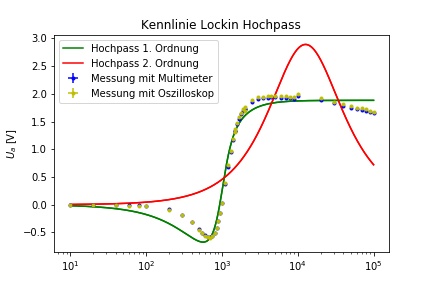
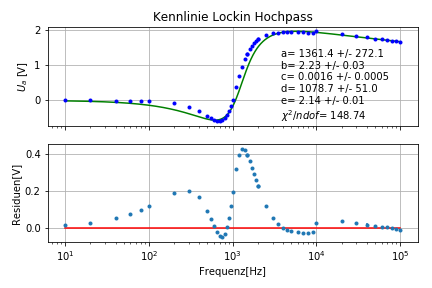
Überarbeitung Vorversuch2 fertig

Changed region(s): [[0.0301, 0.0312, 0.9931, 0.9688], [0.0, 0.4688, 0.0301, 0.5625], [0.0602, 0.4062, 0.1204, 0.4375]]

diff --git a/PH/Protokoll/Magnetische Phasenuebergaenge.tex b/PH/Protokoll/Magnetische Phasenuebergaenge.tex
@@ -269,57 +269,51 @@ f_G^{Literatur} = \SI{1061 \pm 106}{Hz}
 \end{equation*}
 Der Fehler wird hauptsächlich durch den großen Fehler auf die Kapazität des Kondensators begründet. Damit stimmen Literaturwert und Messergebnis innerhalb ihrer Fehler überein.
 
-\subsubsection{Untersuchung des Tiefpasses des Lockin-Verstärkers}
-
-\begin{figure}
-\centering
-\includegraphics[scale=1]{Bilder/Vorversuch2/KennlinieTiefpass.png}
-\caption[test]{Verlauf der Ausgangsspannung bei der Vermessung des Tiefpasses des Lockin-Verstärkers in Abhängigkeit von der Frequenz. In grün und rot sind die Anpassungen der Kennlinien von Tiefpässen 1. und 2. Ordnung.}
-\label{fig:LockinTiefpass_Verlauf}
-\end{figure}
-
-Bei der Untersuchung der internen Filter wurde nur die Ausgangsspannung gemessen, nicht jedoch die Eingangsspannung. Diese wurde zwar konstant gehalten, um dies jedoch als mögliche Fehlerquelle auszuschließen, wird nur die Ausgangsspannung betrachtet[???-ka was damit gemeint ist]. \\
-Den Verlauf der Ausgangsspannung in Abhängigkeit von der Frequenz zeigt Abbildung \ref{fig:LockinTiefpass_Verlauf}. Die Anpassungen der Kennlinien von Tiefpässen 1. bzw. 2. Ordnung sind mit $\chi ^2$/ndof von 2000 bzw. 500 und relativen Fehlern auf die Anpassungsparameter von bis zu $10^4$ nicht gelungen sind. Dennoch zeigen diese, wie in Abbildung \ref{fig:LockinTiefpass_Verlauf} gut erkennbar ist, dass es sich bei dem vermessenen internen Filter des Lockin-Verstärkers um einen Tiefpass 2. Ordnung handelt. \\
-Wie bei einem Tiefpass erwartet, werden kleine Frequenzen durchgelassen und hohe Frequenzen unterdrückt. Dazwischen gibt es einen Übergangsbereich von ca. \SI{500}{Hz} bis ca. \SI{1500}{Hz}, in dem das Signal geschwächt durchgelassen wird bzw. teilweise auch mit $(-1)$ multipliziert wird.
-
-\begin{figure}
-\centering
-\includegraphics[scale=1]{Bilder/Vorversuch2/AblesenTiefpass.png}
-\caption[test]{Verlauf der Ausgangsspannung bei der Vermessung des Tiefpasses des Lockin-Verstärkers in Abhängigkeit von der Frequenz in der Nähe der Grenzfrequenz. In rot ist die horizontale Linie eingezeichnet, bei deren Schnittpunkt mit den Daten die Grenzfrequenz liegt.}
-\label{fig:LockinTiefpass_Ablesen}
-\end{figure}
-
-Da die Grenzfrequenz nicht aus den Anpassungen bestimmt werden kann, muss diese abgelesen werden. Dazu wird Abbildung \ref{fig:LockinTiefpass_Ablesen} betrachtet, in der die Frequenz zur Vereinfachung des Ablesens nicht logarithmiert und der Frequenzbereich eingeschränkt wurde. Die Grenzfrequenz wird dann abgelesen zu:
-\begin{equation*}
-f_G^{Tief} = \SI{830 \pm 14}{Hz}
-\end{equation*}
-Der Fehler wird dabei aus der Annahme einer Gleichverteilung zwischen den beiden Messpunkten um den Schnittpunkt abgeschätzt.
-
 \subsubsection{Untersuchung des Hochpasses des Lockin-Verstärkers}
 
 \begin{figure}
 \centering
 \includegraphics[scale=1]{Bilder/Vorversuch2/KennlinieHochpass.png}
-\caption[test]{Verlauf der Ausgangsspannung bei der Vermessung des Hochpasses des Lockin-Verstärkers in Abhängigkeit von der Frequenz. In grün und rot sind die Anpassungen der Kennlinien von Hochpässen 1. und 2. Ordnung.}
+\caption[test]{Verlauf der Ausgangsspannung bei der Vermessung des Hochpasses des Lockin-Verstärkers in Abhängigkeit von der Frequenz.}
 \label{fig:LockinHochpass_Verlauf}
 \end{figure}
 
-Auch beim Hochpass wurde die Eingangsspannung nicht aufgenommen und deshalb nur die Ausgangsspannung betrachtet. \\
-Auch hier sind die Anpassungen nicht gelungen. Dennoch zeigt Abbildung \ref{fig:LockinHochpass_Verlauf}, dass es sich bei dem vermessenen Hochpass des Lockin-Verstärkers um einen Hochpass 1. Ordnung handelt, da diese Anpassung die Daten deutlich besser beschreibt als die eines Hochpasses 2. Ordnung. \\
-Wie bei einem Hochpass erwartet, werden kleine Frequenzen unterdrückt und hohe Frequenzen durchgelassen. Dazwischen gibt es wieder einen Übergangsbereich, wobei dieser bereits bei kleineren Frequenzen beginnt, nämlich bei ca. \SI{150}{Hz} und auch etwas weiter geht, bis ca. \SI{2}{kHz}. Abgesehen davon sieht der Übergangsbereich qualitativ dem Übergangsbereich des Tiefpasses ähnlich nur umgedreht.
+Bei der Untersuchung der internen Filter wurde nur die Ausgangsspannung gemessen, nicht jedoch die Eingangsspannung. Diese wurde zwar konstant gehalten, daher wird der Einfachheit halber nur die Ausgangsspannung betrachtet. \\
+Abbildung \ref{fig:LockinHochpass_Verlauf} zeigt den Verlauf der Ausgangsspannung in Abhängigkeit von der Frequenz und dazu eine Anpassung der Form:
+\begin{equation*}
+U_a (f) = b \cdot \dfrac{\frac{f}{a}}{\sqrt{1 + \left( \frac{f}{a} \right)^e}} \cdot \sin \left( - \arctan \left( \left( f-d \right) \cdot c \right) \right)
+\end{equation*}
+Dabei entspricht der Parameter a der Grenzfrequenz $f_G$, b der Amplitude der Spannung $U_0$, d entspricht der Frequenz, bei der die Phase null ist, c ist eine Skalierung des Phasengangs und e der Exponent des $\frac{f}{f_G}$-Summanden unter der Wurzel. Der Erwartungswert für den Exponenten ist 2. \\
+Als Fehler auf die Spannung wurde der Digitalisierungsfehler 
+\begin{equation*}
+\sigma _U = \dfrac{\SI{0.01}{V}}{\sqrt{12}}
+\end{equation*}
+und auf die Frequenz der vom Hersteller des Lockin-Verstärkers angegebene Fehler von 2\% angenommen. \\
+Die Anpassung ist mit einem $\chi ^2$/ndof von 148,7 und klaren Systematiken in den Residuen nicht gut gelungen. Dennoch zeigt der Plot der Anpassung und der Daten, dass die Daten qualitativ dem Verlauf folgen. \\
+Die Grenzfrequenz liegt mit einem Messergebnis von \SI{1361 \pm 272}{Hz} ca. 1,5$\sigma$ neben dem eingestellten Wert von \SI{1000}{Hz}. Dies liegt allerdings hauptsächlich daran, dass der Fehler auf den Messwert sehr groß ist.
+
+\subsubsection{Untersuchung des Tiefpasses des Lockin-Verstärkers}
 
 \begin{figure}
 \centering
-\includegraphics[scale=1]{Bilder/Vorversuch2/AblesenHochpass.png}
-\caption[test]{Verlauf der Ausgangsspannung bei der Vermessung des Hochpasses des Lockin-Verstärkers in Abhängigkeit von der Frequenz in der Nähe der Grenzfrequenz. In rot ist die horizontale Linie eingezeichnet, bei deren Schnittpunkt mit den Daten die Grenzfrequenz liegt.}
-\label{fig:LockinHochpass_Ablesen}
+\includegraphics[scale=1]{Bilder/Vorversuch2/KennlinieTiefpass.png}
+\caption[test]{Verlauf der Ausgangsspannung bei der Vermessung des Tiefpasses des Lockin-Verstärkers in Abhängigkeit von der Frequenz.}
+\label{fig:LockinTiefpass_Verlauf}
 \end{figure}
 
-Auch hier wird die Grenzfrequenz durch Ablesen bestimmt. Dazu ist in Abbildung \ref{fig:LockinHochpass_Ablesen} der Bereich um die Grenzfrequenz in nicht-logarithmischer Auftragung gezeigt. Die Grenzfrequenz wird dann abgelesen zu:
+Auch beim Tiefpass wurde die Eingangsspannung nicht gemessen, sodass für die Auswertung die Ausgangsspannung und nicht der Quotient aus beiden betrachtet. \\
+Abbildung \ref{fig:LockinTiefpass_Verlauf} zeigt den Verlauf der Ausgangsspannung in Abhängigkeit von der Frequenz und eine Anpassung der Form:
 \begin{equation*}
-f_G^{Hoch} = \SI{1200 \pm 29}{Hz}
+U_a (f) = b \cdot \dfrac{1}{\sqrt{1 + \left( \frac{f}{a} \right)^e}} \cdot \sin \left( - \arctan \left( \left( f-d \right) \cdot c \right) \right)
 \end{equation*}
-Der Fehler wird dabei wieder aus der Annahme einer Gleichverteilung zwischen den beiden Messpunkten um den Schnittpunkt abgeschätzt.
+Dabei entspricht der Parameter a der Grenzfrequenz $f_G$, b der Amplitude der Spannung $U_0$, d entspricht der Frequenz, bei der die Phase null ist, c ist eine Skalierung des Phasengangs und e der Exponent des $\frac{f}{f_G}$-Summanden unter der Wurzel. Der Erwartungswert für den Exponenten ist 2. \\
+Als Fehler auf die Spannung wurde der Digitalisierungsfehler 
+\begin{equation*}
+\sigma _U = \dfrac{\SI{0.01}{V}}{\sqrt{12}}
+\end{equation*}
+und auf die Frequenz der vom Hersteller des Lockin-Verstärkers angegebene Fehler von 2\% angenommen. \\
+Das $\chi ^2$/ndof von 5,92 deutet auf eine deutlich besser gelungene Anpassung hin, jedoch ist hier in den Residuen eine ähnliche Systematik zu erkennen, wie bei dem Hochpass. Hinzu kommt, dass hier der Exponent mit $3,68 \pm 0,09$ sehr deutlich von dem eigentlichen Wert 2 abweicht. \\
+Die Grenzfrequenz liegt mit einem Messergebnis von \SI{846 \pm 25}{Hz} etwas mehr als 6$\sigma$ neben dem eingestellten Wert von \SI{1000}{Hz}. Insbesondere liegt das Messergebnis hier unter dem eingestellten Wert, wohingegen das Messergebnis beim Hochpass darüber lag. Woher diese unterschiedliche Verschiebung kommt, ist unklar.
 
 \subsubsection{Untersuchung des Bandpasses des Lockin-Verstärkers}
 

diff --git a/PH/Auswertung/Vorversuch interne Filter/Lockin Hochpass.py b/PH/Auswertung/Vorversuch interne Filter/Lockin Hochpass.py
@@ -13,6 +13,8 @@ import timeit
 
 start_time=timeit.default_timer()
 
+speichern = 0
+
 data = np.genfromtxt("../../Daten/Vorversuch 2/lockin Hochpass.csv", delimiter = ';', skip_header = 1)
 def kenn(A, x):#A = [f_G, Amplitude, Nullphase]
     return A[1]*(x/A[0])/np.sqrt(1 + (x/A[0])**A[4]) * np.sin(np.arctan((x-A[3])*A[2]))
@@ -39,12 +41,12 @@ plt.grid()
 plt.setp(ax1.get_xticklabels(), visible=False)
 ax2 = plt.subplot(212,sharex = ax1)
 ax2.set_xlabel("Frequenz[Hz]")
-ax2.set_ylabel("Residuen[mV]")
+ax2.set_ylabel("Residuen[V]")
 ax2.set_xscale("log", nonposx = 'clip')
 plt.errorbar(f,A-kenn(sol[0],f),sA*2,fmt = ".")
 plt.plot(f, np.zeros(len(f)), color='r')
 plt.tight_layout()
-plt.figtext(0.2,0.7,
+plt.figtext(0.65,0.58,
                 'a= '+str(np.round(sol[0][0],1))+' +/- '+str(np.round(sol[1][0],1))+'\n'
                 +'b= '+str(np.round(sol[0][1],2))+' +/- '+str(np.round(sol[1][1],2))+'\n'
                 +'c= '+str(np.round(sol[0][2],4))+' +/- '+str(np.round(sol[1][2],4))+'\n'
@@ -52,5 +54,8 @@ plt.figtext(0.2,0.7,
                 +'e= '+str(np.round(sol[0][4],2))+' +/- '+str(np.round(sol[1][4],2))+'\n'
                 +'$\chi ^2 / ndof$= ' + str(np.round(sol[2], 2)))
 plt.grid()
+
+if speichern == 1:
+    plt.savefig("../../Protokoll/Bilder/Vorversuch2/KennlinieHochpass")
 
 print("Laufzeit: {0:9.2f} Sekunden".format(timeit.default_timer()-start_time))

diff --git a/PH/Auswertung/Vorversuch interne Filter/Lockin Tiefpass 2.py b/PH/Auswertung/Vorversuch interne Filter/Lockin Tiefpass 2.py
@@ -14,6 +14,8 @@ import scipy as sy
 
 start_time=timeit.default_timer()
 
+speichern = 0
+
 data = np.genfromtxt("../../Daten/Vorversuch 2/lockin Tiefpass.csv", delimiter = ';', skip_header = 1)
 
 f, A, B = AM.sortieren([data[:,0], data[:,1], data[:,2]], 0)
@@ -69,7 +71,7 @@ plt.grid()
 plt.setp(ax1.get_xticklabels(), visible=False)
 ax2 = plt.subplot(212,sharex = ax1)
 ax2.set_xlabel("Frequenz[Hz]")
-ax2.set_ylabel("Residuen[mV]")
+ax2.set_ylabel("Residuen[V]")
 ax2.set_xscale("log", nonposx = 'clip')
 plt.errorbar(f,A-kenn(sol[0],f),sA*2,fmt = ".")
 plt.plot(f, np.zeros(len(f)), color='r')
@@ -82,5 +84,7 @@ plt.figtext(0.2,0.6,
                 +'e= '+str(np.round(sol[0][4],2))+' +/- '+str(np.round(sol[1][4],2))+'\n'
                 +'$\chi ^2 / ndof$= ' + str(np.round(sol[2], 2)))
 plt.grid()
+if speichern == 1:
+    plt.savefig("../../Protokoll/Bilder/Vorversuch2/KennlinieTiefpass")
 
 print("Laufzeit: {0:9.2f} Sekunden".format(timeit.default_timer()-start_time))
